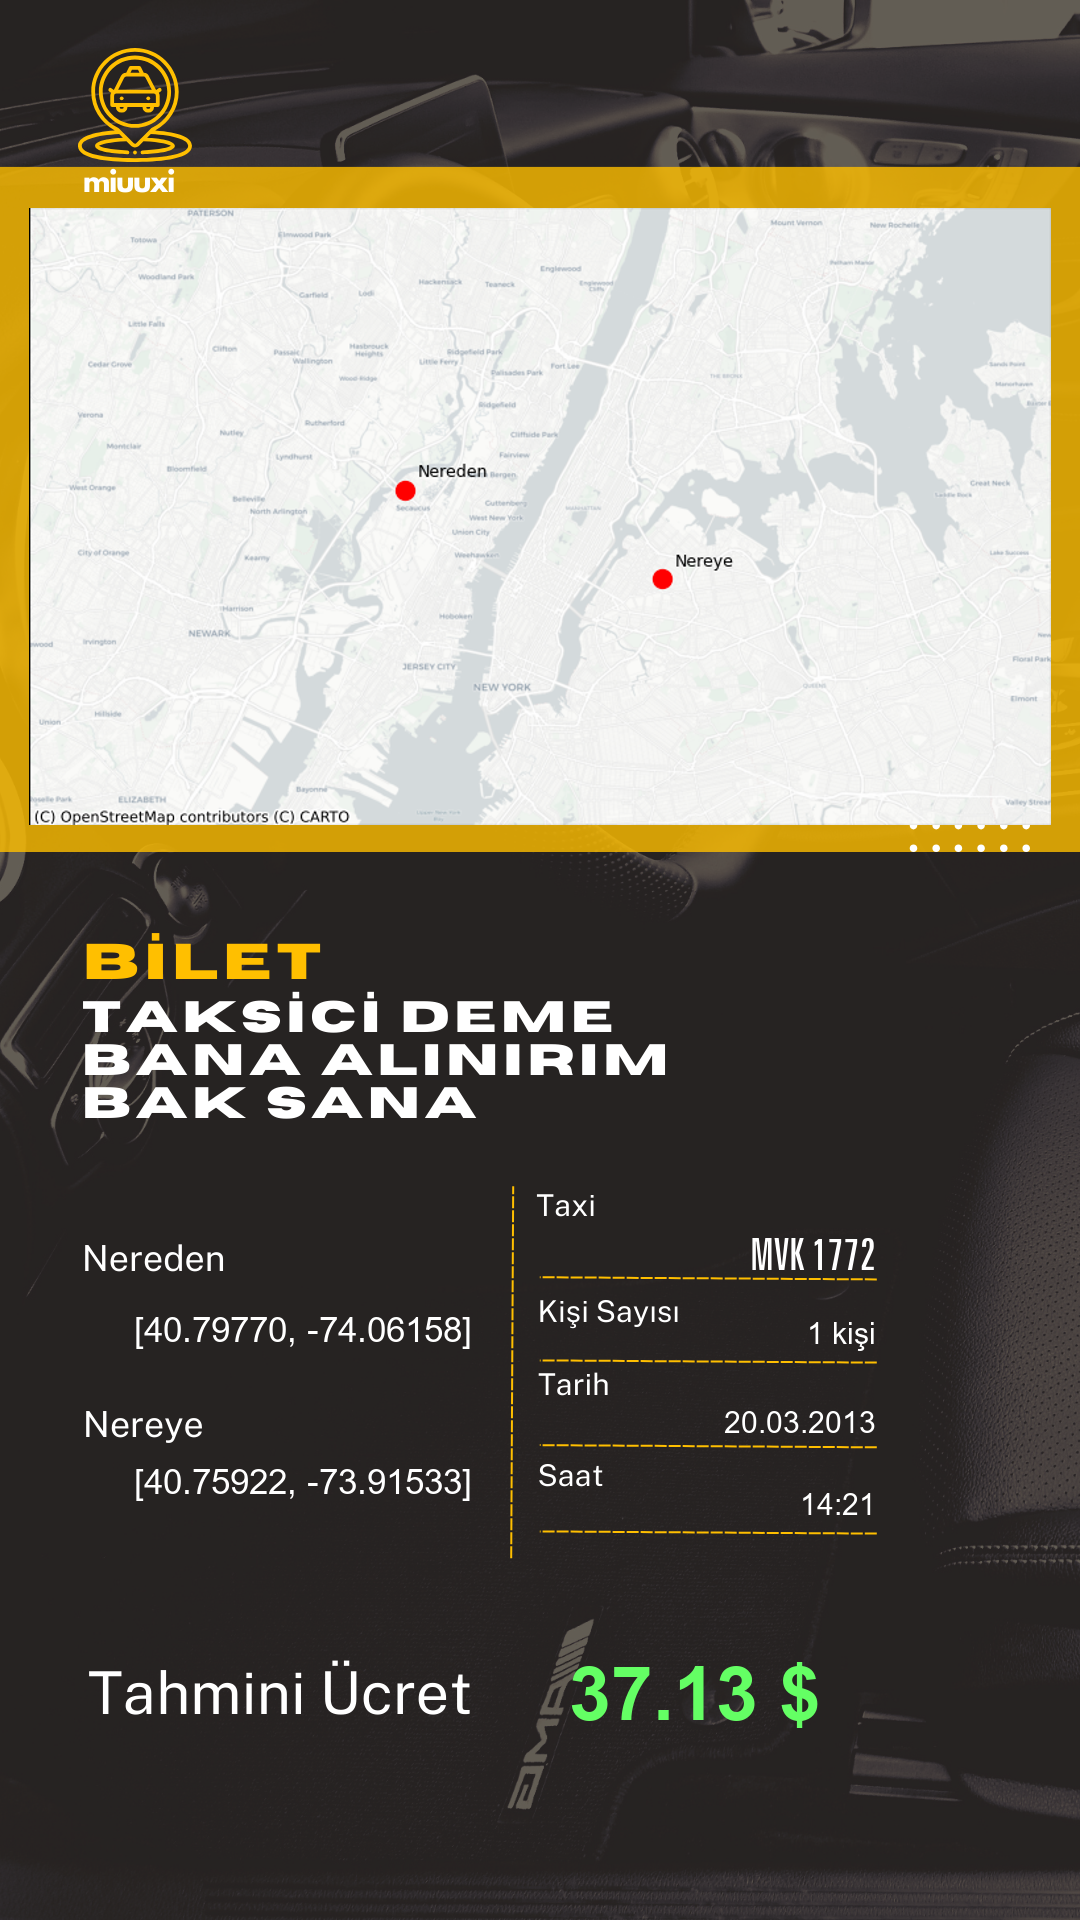
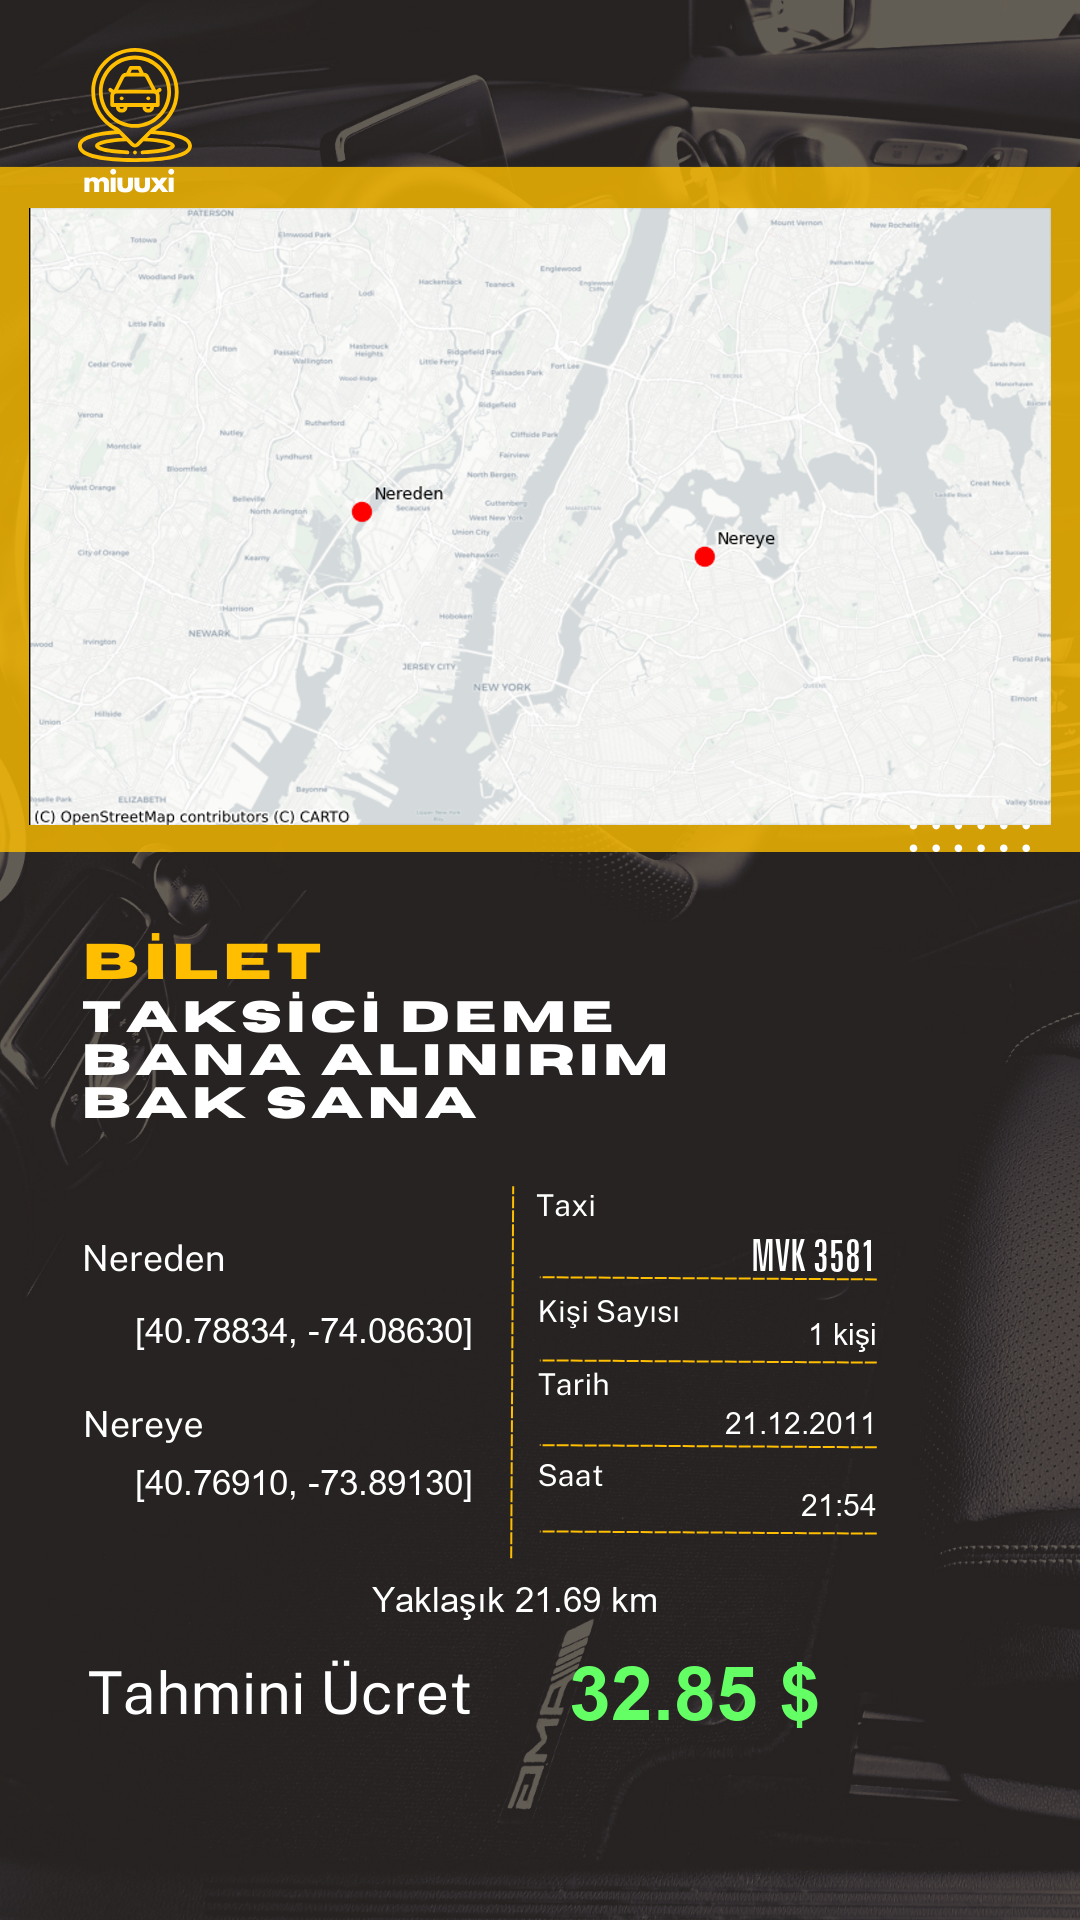
init

diff --git a/pages/1_Model_ve_Eğitim.py b/pages/1_Model_ve_Eğitim.py
@@ -1,0 +1,230 @@
+# -*- coding: utf-8 -*-
+"""
+Created on Tue Sep 12 17:15:17 2023
+
+@author: iecet
+"""
+
+import streamlit as st
+
+st.title(
+    "Taksi Ücret Tahmini Uygulaması: Kullanıcıların Binme ve İnme Lokasyonlarına Dayalı Makine Öğrenmesi Modeli"
+)
+
+st.markdown(
+    """
+**Oğuzhan Arı** , **Tuğba Aktaş**, **İ.Ece Titiz**, **Elmira Kaya**
+
+*Source Code: https://github.com/oguzhari/CD_Proje_Alpha*
+
+"""
+)
+
+st.header("Özet")
+st.info(
+    """
+Bu çalışmada, kullanıcıların seyahat etmek istedikleri yerlerin binme ve inme lokasyon bilgileri, 
+seyahat saati ve yolcu sayısı girdikleri kullanılarak makine öğrenmesi algoritmalarıyla tahmini ücreti hesaplamak için 
+bir model oluşturulmuştur.
+Model, Kaggle platformundan alınan yaklaşık 55 milyon satırlık New York City Taxi Fare Prediction 
+veri seti kullanılarak eğitilmiştir. x,y,z algoritmaları kullanılmıştır. ve k r2 score'u elde edilmiştir.
+
+"""
+)
+
+st.markdown(
+    "**Anahtar Kelimeler:** *Makine Öğrenmesi*, *Streamlit*, *Veri Bilimi*, *Python*"
+)
+
+st.header("Giriş")
+st.markdown(
+    """
+**Konu:** Bu çalışma, coğrafi konum bilgileri, yolcu sayısı ve seyahat saati bilgilerini kullanarak taksi ücreti tahmin etme yöntemlerine odaklanmaktadır.
+
+**Amaç:** Yerel ve küresel ölçekte, coğrafi konum bilgilerinin işlenmesi ve anlamlandırılması giderek 
+daha önemli hale gelmektedir. Bu nedenle, coğrafi verilerle çalışırken iki nokta arasındaki mesafeyi 
+hesaplama yeteneği, coğrafi bilgi sistemleri, seyahat planlaması, yakınlık analizi ve diğer birçok 
+uygulama için temel bir öneme sahiptir. Bu çalışmanın amacı, Haversine formülü gibi popüler coğrafi 
+mesafe hesaplama yöntemlerini incelemek ve bu yöntemlerin pratik uygulamalarını vurgulamaktır.
+
+**Önem:** Turizm endüstrisinde rota planlaması, lojistik yönetiminde taşıma maliyetlerinin hesaplanması 
+gibi birçok alanda bu yöntemlere ihtiyaç vardır. Bu çalışma, bu önemli aracın anlaşılmasına ve etkin kullanılmasına 
+katkı sağlamayı amaçlamaktadır.
+
+**Varsayımlar:** Bu çalışma, coğrafi konumların yüzeydeki küresel bir düzlemde modellediği kabulüne dayanmaktadır. 
+Ayrıca, hesaplama yöntemlerinin hesaplamalarının hassaslığı ve doğruluğu, kullanılan 
+coğrafi verilerin kalitesine bağlı olarak değişebilir.
+
+**Sınırlılıklar:** Bu çalışma, sadece belirli coğrafi mesafe hesaplama yöntemlerine odaklanmaktadır ve daha karmaşık coğrafi analizlerin veya çoklu veri kaynaklarının kullanımını ele almamaktadır. Ayrıca, kullanılan coğrafi verilerin kesinliği ve tamamlığı, hesaplamanın doğruluğunu etkileyebilir.
+
+Bu çalışmanın giriş bölümü, çalışmanın konusunu, amacını, önemini, varsayımlarını ve sınırlılıklarını özetlemektedir. Bu bölüm, okuyuculara çalışmanın genel bağlamını ve önemini açıklamak için kullanılır."""
+)
+
+st.header("Kullanılan Yöntemler")
+
+st.subheader(
+    "Girilen Binme Ve İnme Koordinatlarının Haversine Formülü ile Kilometreye Çevrilmesi"
+)
+
+code = '''def haversine(pickup_, dropoff_):
+    """
+    Calculate the great circle distance in kilometers between two points
+    on the earth (specified in decimal degrees)
+    """
+    # convert decimal degrees to radians
+    lon1, lat1, lon2, lat2 = pickup_[0], pickup_[1], dropoff_[0], dropoff_[1]
+    lon1, lat1, lon2, lat2 = map(radians, [lon1, lat1, lon2, lat2])
+
+    # haversine formula
+    dlon = lon2 - lon1
+    dlat = lat2 - lat1
+    a = sin(dlat / 2) ** 2 + cos(lat1) * cos(lat2) * sin(dlon / 2) ** 2
+    c = 2 * asin(sqrt(a))
+    r = 6371  # Radius of earth in kilometers. Use 3956 for miles. Determines return value units.
+    return c * r'''
+st.code(code, language="python")
+
+st.markdown(
+    """
+Haversine formülü, iki koordinat arasındaki mesafenin hassas bir şekilde hesaplamasına olanak sağlamaktadır.
+Coğrafi verileri daha anlamlı ve kullanışlı bir şekilde işleyebilmek adına girilen inme ve binme koordinatları
+bu formül ile kilometreye çevrilmiştir. 
+"""
+)
+
+st.header("Veri Önişleme Adımları")
+st.subheader("2.5 Dolar Altı Kayıtların Veri Setinden Çıkarılması")
+
+code = """def remove_under_2_5_dollars(data):
+    eski_boyut = len(data)
+    print('Eski boyut: %d' % eski_boyut)
+    data = data.drop(data[data['fare_amount']<2.5].index, axis=0)
+    print('Yeni boyut: %d' % len(data))
+    print('Silinen veri sayısı: %d' % (eski_boyut - len(data)))"""
+st.code(code, language="python")
+
+st.markdown(
+    """
+Tutarı 2.5 doların altında olan kayıtlar New York taksi ücretlerinde minimum ücretin 2.5 dolar olması sebebiyle 
+veri setinden çıkarılmıştır. 
+"""
+)
+
+st.subheader("Eksik Değer İçeren Verilerin Silinmesi")
+code = """
+def remove_null_values(data):
+    eski_boyut = len(data)
+    print('Eski boyut: %d' % eski_boyut)
+    data = data.dropna(how='any', axis=0)
+    print('Yeni boyut: %d' % len(data))
+    print('Silinen veri sayısı: %d' % (eski_boyut - len(data)))"""
+st.code(code, language="python")
+
+st.markdown(
+    """
+Eksik veri içeren gözlemler veri setinden çıkarılmıştır. 
+"""
+)
+
+st.subheader("New York Dışında Kalan Koordinatlar İçeren Kayıtların Silinmesi")
+code = """
+#Sınırlar:
+# Kuzey Enlem: 40.917577
+# Güney Enlem: 40.477399
+# Doğu Boylam: -73.700272
+# Batı Boylam: -74.259090
+
+def remove_outside_nyc(data):
+    eski_boyut = len(data)
+    print('Eski boyut: %d' % eski_boyut)
+    data = data[(data['pickup_longitude'] >= -74.259090) & (data['pickup_longitude'] <= -73.700272)]
+    data = data[(data['dropoff_longitude'] >= -74.259090) & (data['dropoff_longitude'] <= -73.700272)]
+    data = data[(data['pickup_latitude'] >= 40.477399) & (data['pickup_latitude'] <= 40.917577)]
+    data = data[(data['dropoff_latitude'] >= 40.477399) & (data['dropoff_latitude'] <= 40.917577)]
+    print('Yeni boyut: %d' % len(data))
+    print('Silinen veri sayısı: %d' % (eski_boyut - len(data)))
+"""
+st.code(code, language="python")
+
+st.markdown(
+    """
+Tahminlerin New York şehir içi taksi ücretlerini kapsaması amaçlandığından New York dışında inme
+veya binme koordinatları içeren kayıtlar veri setinden çıkarılmıştır. 
+"""
+)
+
+st.subheader("Biniş ve İniş Koordinatları Birebir Aynı Olan Kayıtların Silinmesi")
+code = """
+def remove_same_location(data):
+    eski_boyut = len(data)
+    print('Eski boyut: %d' % eski_boyut)
+    data = data[(data['pickup_longitude'] != data['dropoff_longitude']) | (data['pickup_latitude'] != data['dropoff_latitude'])]
+    print('Yeni boyut: %d' % len(data))
+    print('Silinen veri sayısı: %d' % (eski_boyut - len(data)))
+"""
+st.code(code, language="python")
+
+st.markdown(
+    """
+Coğrafi mesafe hesaplamalarında gereksiz tekrarları önlemek ve sonuçların daha anlamlı olmasını sağlamak
+amacıyla biniş ve iniş koordinatları aynı olan kayıtlar veri setinden çıkarılmıştır.
+olmasına yardımcı oldu."
+"""
+)
+
+st.subheader("Yolcu sayısı 1den az ve 6dan Büyük Olan Kayıtların Silinmesi")
+code = """
+def rmeove_outlier_passenger(data):
+    eski_boyut = len(data)
+    print('Eski boyut: %d' % eski_boyut)
+    data = data.drop(data[data['passenger_count']>7].index, axis = 0)
+    data = data.drop(data[data['passenger_count']<1].index, axis = 0)
+    print('Yeni boyut: %d' % len(data))
+    print('Silinen veri sayısı: %d' % (eski_boyut - len(data)))"""
+st.code(code, language="python")
+
+st.markdown(
+    """
+Bir taksi minimum 1 maximum 6 altı yolcu taşıyabileceğinden bu yolcu aralığının dışındaki kayıtlar veri setinden çıkarılmıştır. 
+"""
+)
+
+
+st.header("Sonuç")
+st.markdown(
+    """
+Bu çalışma, yolculuk ücret tahmini konusunda Kaggle veri setleri ve Streamlit arayüzü kullanarak 
+yenilikçi bir yaklaşım sunmaktadır. Elde edilen sonuçlar ve bulgular, bu uygulamanın kullanıcılara 
+seyahat maliyetlerini daha doğru bir şekilde tahmin etmelerine yardımcı olduğunu göstermektedir.
+
+Kullanıcılarımız, kolayca yolculuk planları yapabilir ve tahmini maliyetleri önceden görebilirler. 
+ Bu, kullanıcıların daha bilinçli seyahat kararları almasına yardımcı oldu.
+
+Sonuç olarak, bu çalışma, büyük veri analitiği, makine öğrenmesi ve kullanıcı dostu arayüz tasarımının 
+birleşimini kullanarak yolculuk ücret tahmini konusunda önemli bir adım atmaktadır. Kaggle'dan alınan 
+veri setleri, bu alandaki potansiyel kaynakları vurgulamakta ve Streamlit arayüzü, benzer uygulamaların 
+daha fazla kullanıcı tarafından benimsenmesine yol açabilecek bir arayüz tasarımı örneği sunmaktadır.
+
+Gelecekteki çalışmalar, daha fazla veri kaynağına erişim ve daha karmaşık makine öğrenmesi teknikleri 
+kullanarak tahmin modellerinin iyileştirilmesine odaklanabilir. Ayrıca, kullanıcı geri bildirimleri
+dikkate alarak uygulamanın kullanıcı geliştirebilir. 
+
+Bu çalışma, seyahat maliyeti tahminindeki potansiyel gelişmeler için bir temel oluştururken, 
+büyük veri ve yapay zeka konularındaki gelecekteki araştırmalara da ilham kaynağı olabilecektir."""
+)
+
+
+st.header("References")
+st.markdown(
+    """
+1. Li H, Tamang T, Nantasenamat C. Toward insights on antimicrobial selectivity of host defense peptides via machine learning model interpretation. Genomics. 2021;113(6):3851-3863.
+
+2. Schaduangrat N, Malik AA, Nantasenamat C. ERpred: a web server for the prediction of subtype-specific estrogen receptor antagonists. PeerJ. 2021;9:e11716.
+
+3. Schaduangrat N, Lampa S, Simeon S, Gleeson MP, Spjuth O, Nantasenamat C. Towards reproducible computational drug discovery. J Cheminform. 2020;12(1):9. 
+
+4. Li H, Nantasenamat C. Toward insights on determining factors for high activity in antimicrobial peptides via machine learning. PeerJ. 2019;7:e8265.
+
+5. Suvannang N, Preeyanon L, Malik AA, Schaduangrat N, Shoombuatong W, Worachartcheewan A, Tantimongcolwat T, Nantasenamat C. Probing the origin of estrogen receptor alpha inhibition via large-scale QSAR study. RSC Adv. 2018;8(21):11344-11356.
+"""
+)

diff --git a/main.py b/main.py
@@ -8,6 +8,13 @@ from model_prediction import *
 from save_map_figures import *
 from create_final_image import *
 
+st.set_page_config(
+    page_title="Miuuxy",
+    page_icon=":hatched_chick:",
+    initial_sidebar_state="expanded",
+)
+
+
 # Session state tanımlama
 if "current_state" not in st.session_state:
     st.session_state.current_state = "get_pickup_location"
@@ -20,6 +27,7 @@ if "current_state" not in st.session_state:
     st.session_state.random_date = "2010-01-01 00:00:00 UTC"
     st.session_state.hour = None
     st.session_state.minute = None
+    st.session_state.distance = None
 
 
 def get_date():
@@ -80,11 +88,11 @@ elif st.session_state.current_state == "get_dropoff_location":
     if map_ny["last_clicked"]:
         st.session_state.dropoff_lat = map_ny["last_clicked"]["lat"]
         st.session_state.dropoff_lon = map_ny["last_clicked"]["lng"]
-        distance = haversine(
+        st.session_state.distance = haversine(
             [st.session_state.pickup_lat, st.session_state.pickup_lon],
             [st.session_state.dropoff_lat, st.session_state.dropoff_lon],
         )
-        if distance < 1.5:
+        if st.session_state.distance < 1.5:
             st.session_state.current_state = "get_pickup_location_with_distance_error"
             st.session_state.distance_error = True
             st.experimental_rerun()
@@ -155,9 +163,10 @@ elif st.session_state.current_state == "get_passenger_count_and_time":
                 passenger_count,
                 st.session_state.random_date,
                 prediction,
+                st.session_state.distance,
             )
             status.update(label="Bitti!", state="complete", expanded=False)
-        st.image("images/result.png", width=700)
+        st.image("images/result.png")
 
     if st.button("Sıfırla"):
         st.session_state.current_state = "get_pickup_location"

diff --git a/create_final_image.py b/create_final_image.py
@@ -11,6 +11,14 @@ def create_random_plate():
     return plate
 
 
+def custom_dice_roll():
+    roll = random.uniform(0, 1)  # 0 ile 1 arasında bir sayı üretir
+    if roll < 0.99:
+        return 1
+    else:
+        return 2
+
+
 def create_result_image(
     pickup_lat,
     pickup_lon,
@@ -19,10 +27,18 @@ def create_result_image(
     passenger_count,
     date,
     prediction,
+    distance,
 ):
     # Görselleri oku
     template = Image.open("images/template.png")
-    model = Image.open("images/model.png")
+    # %99'a %1 olasılıklı random
+    zar = custom_dice_roll()
+
+    if zar == 1:
+        model = Image.open("images/model.png")
+    else:
+        model = Image.open("images/easter_egg.png")
+
     if type(date) == str:
         date = datetime.strptime(date, "%Y-%m-%d %H:%M:%S UTC")
 
@@ -99,7 +115,19 @@ def create_result_image(
         anchor="mm",
     )
 
-    plate = create_random_plate()
+    distance = f"Yaklaşık {distance:.2f} km"
+    drawable.text(
+        (515, 1600),
+        distance,
+        fill=(255, 255, 255),
+        font=ImageFont.truetype("fonts/arial.ttf", 35),
+        anchor="mm",
+    )
+
+    if zar == 1:
+        plate = create_random_plate()
+    else:
+        plate = "MVK GOLDEN"
 
     drawable.text(
         (876.8, 1228.7),

diff --git a/pages/2_Hakkımızda.py b/pages/2_Hakkımızda.py
@@ -1,0 +1,42 @@
+import streamlit as st
+
+st.set_page_config(page_title="Hakkımızda", page_icon="images/icon.png")
+st.image("images/merge.png", use_column_width=True)
+
+
+# Kişi bilgileri
+kisiler = [
+    {"ad": "Ece Titiz", "aciklama": "kisi bilgisi", "resim_linki": "images/ece_pp.png"},
+    {
+        "ad": "Oğuzhan Arı",
+        "aciklama": "kisi bilgisi",
+        "resim_linki": "images/oguzhan_ari_pp.png",
+    },
+    {
+        "ad": "Tuğba Aktaş",
+        "aciklama": "kisi bilgisi",
+        "resim_linki": "images/tugba_pp.png",
+    },
+    {
+        "ad": "Elmira Kaya",
+        "aciklama": "kisi bilgisi",
+        "resim_linki": "images/oguzhan_ari_pp.png",
+    },
+]
+
+title_alignment = """
+        <style>
+        #the-title {
+          text-align: center
+        }
+        </style>
+        """
+st.markdown(title_alignment, unsafe_allow_html=True)
+
+for kisi in kisiler:
+    col1, col2 = st.columns(2)
+    with col1:
+        st.image(kisi["resim_linki"], caption=kisi["ad"], width=150)
+    with col2:
+        st.write(f"**{kisi['ad']}**")
+        st.write(kisi["aciklama"])

diff --git a/model_prediction.py b/model_prediction.py
@@ -5,7 +5,7 @@ from datetime import datetime
 
 # Load the model
 def load_model():
-    return joblib.load("model.pkl")
+    return joblib.load("model/model.pkl")
 
 
 def check_is_in_nyc(pic_lat, pic_lon, drop_lat, drop_lon):
